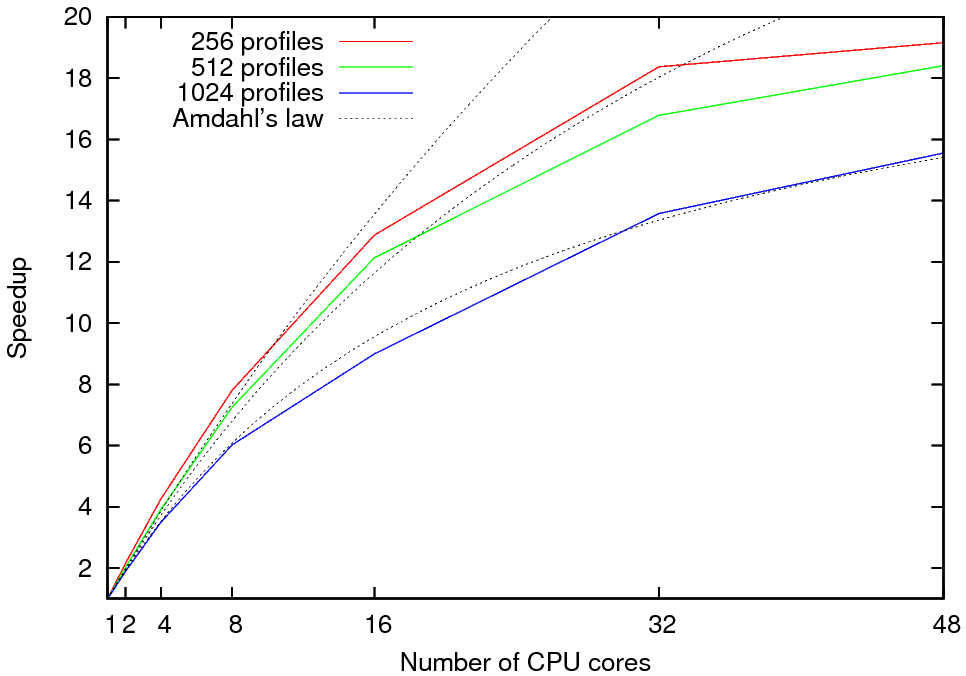
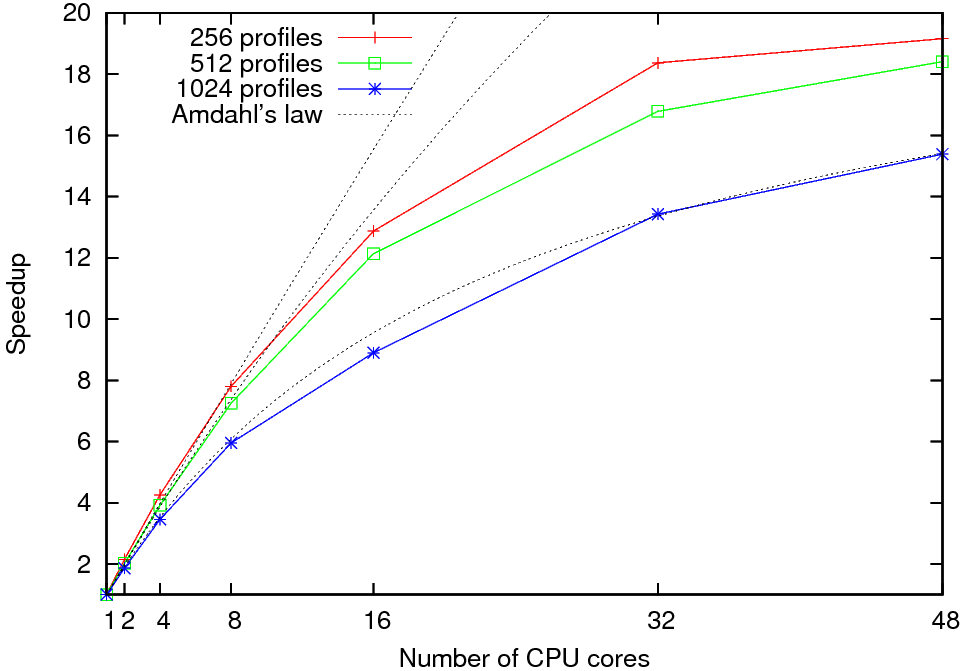
With corrections in the parallel algorothm and figures
git-svn-id: svn://svn.r-forge.r-project.org/svnroot/cghseg@44 1ac423ed-b746-4d41-94bf-136b112ad22c

diff --git a/paper/cghseg.tex b/paper/cghseg.tex
@@ -1,4 +1,4 @@
-\documentclass[article,10pt]{llncs}
+\documentclass{llncs}
 \usepackage{makeidx}  % allows for indexgeneration
 
 \usepackage[latin1]{inputenc}
@@ -179,9 +179,6 @@ At step $k, t$ of Algorithm \ref{algo:DPALinear}  $\mathcal{O}(P)$ basic operati
 \begin{algorithm}
 \begin{algorithmic}
 \caption{Linear Dynamic Programming algorithm for the classification loss}\label{algo:DPALinear}
-
-
-
     \State \textbf{Input}: $Y(t)$ a sequence of $n$ data-points, $K$ an integer 
  \State \textbf{Input}: $C_{ij}$ cost of the segments $\rrbracket I, j \rrbracket$  for all $(i, j) \in \llbracket1, n \rrbracket^2$\\
    \State \textbf{Output}: $C^{(k)}_{1,t}$ in $\mathbb{R}$ for all $k \leq K$ and $t \leq n$ \\
@@ -265,14 +262,16 @@ Joint segmentation presents an additional algorithmic challenge. When each $K_i$
 
 \begin{algorithm}
 \begin{algorithmic}
-\caption{Paralell Algorithm for Joint segmentation}\label{algo:parallelDP}
+\caption{Parallel Algorithm for Joint segmentation}\label{algo:parallelDP}
 \State \textbf{Input}: $\{Y_i(t)\}$, $I$ sequences of $n$ data-points, $K$ an integer 
 \State \textbf{Input}: $C_{ij}$ cost of the segments $\rrbracket i, j \rrbracket$  for all $(i, j) \in \llbracket1, n \rrbracket^2$\\
 \State \textbf{Output}:  $\{\widehat{K}_1,..., \widehat{K}_I\}$, $C^{(\widehat{K}_i)}_{1,t}$ in $\mathbb{R}$ for all $i \leq I$, $k \leq K_i$ and $t \leq n$ \\
-\For{ Parallel $i \in \{1,...I\}$}
-\State compute $C^{(k)}_{1,t}$  $\forall k \leq K$ and $t \leq n$
+\While{not convergence}
+\For{$i \in \{1,...I\}$} {\bf in parallel}
+\State compute $C^{(k)}_{1,t}$  $\forall k \leq K$ and $t \leq n$ with Algorithm \ref{algo:DPALinear}
 \EndFor
-\State compute $\{\widehat{K}_1,..., \widehat{K}_I\}$
+\State compute $\{\widehat{K}_1,..., \widehat{K}_I\}$ with {\bf sequential} DP \cite{PLH11}
+\EndWhile
   \end{algorithmic}
 \end{algorithm}
 
@@ -295,7 +294,7 @@ The software design take advantage of multiprocessing to treat the profiles in p
 To assess the quality of the parallel implementation, we developed a simulation scheme to analyze the \esoft execution time 
 with varying number of profiles and number of available CPU units (cores).
 We simulated $256, 512$ and $1024$ profiles of length $20,000$ with k.mean=10,SNR=5,lambda=10 and we ran \esoft on up to $48$ cores.
-We observed a relative speedup decrease (see Fig.\ref{figspeedup}) with the number of cores and profiles. Indeed, the lower is the number of profiles the less time consuming are the sequential parts compared with the parallel parts. Meanwhile, when the datasets comes large in the number of profiles, the speedup better follows the Amdahl's law that predicts the theoretical maximum speedup (see dashed lines Fig.\ref{figspeedup}): indeed the Amdahl's law established that the speedup follow $1/(alpha+(1-alpha)/p)$ where.... We deduced that some overhead due to the mechanisms that launch the parallel sections (mainly in the \texttt{R} package \texttt{parallel}) comes to be less negligible when the datasets are not large enough, but also that the quality of the implementation is therefore demonstrated especially for large datasets.
+We observed a relative speedup decrease (see Fig.\ref{figspeedup}) with the number of cores and profiles. Indeed, the lower is the number of profiles the less time consuming is the sequential part compared with the parallel part (see Algorithm \ref{algo:parallelDP}). Meanwhile, when the datasets comes large in the number of profiles, the speedup better follows the Amdahl's law that predicts the theoretical maximum speedup (see dashed lines Fig.\ref{figspeedup}, ref???): the Amdahl's law established that the speedup follows $1/(\alpha+(1-\alpha)/p)$ where $\alpha$ is the time proportion of the sequential part and $p$ the number of cores. We deduced that some overhead due to the mechanisms that launch the parallel sections (mainly in the \texttt{R} package \texttt{parallel}) comes to be less negligible when the datasets are not large enough, but also that the quality of the implementation is therefore demonstrated especially for large datasets.
 
 While the main interest of \esoft is the quality of its results, the associated computational expense is affordable even
 for very large datasets. As a benchmark, we simulated datasets with $1024$ profiles of length $100,000$ with k.mean=10,SNR=5,lambda=10. This corresponds to the up-tu-date limits of the available datasets??? 
@@ -327,8 +326,8 @@ SNR  &  $\text{CI}_{\text{new}}(\widehat{\text{K}})$ & $\text{CI}_{\text{old}}(\
 \end{table}
 \begin{figure}[h!]
   \begin{center}
-    \includegraphics[height=10cm]{figures/speedup}
-    \caption{Speedup. Notice that we ran 5 times each simulation and averaged the results.}
+    \includegraphics[height=5cm]{figures/speedup}
+    \caption{Average speedup of \esoft observed  on simulated datasets for a varying number of profiles and available core (plain lines). Amdahl's law is empirically adjusted to the computing results with $256,512$ and $1024$ profiles (dashed lines, with $\alpha=0.2,1.2,4.5\%$ respectively). Notice that we ran 5 times each simulation and averaged the results. Run on a quadri-12 cores Opteron 2.2 GHz, 256 Gb RAM.}
     \label{figspeedup}
   \end{center}
 \end{figure}
@@ -337,18 +336,20 @@ SNR  &  $\text{CI}_{\text{new}}(\widehat{\text{K}})$ & $\text{CI}_{\text{old}}(\
   \begin{center}
     %\scriptsize{
     %\scalebox{0.89}{
-    \begin{tabular}{>{\columncolor{lightgray}}c|ccc|ccc}
+    %\begin{tabular}{>{\columncolor{lightgray}}c|ccc|ccc}
+    \begin{tabular}{|c|ccc|ccc|}
       \hline
-      Length of the profiles &  \multicolumn{3}{c}{$20,000$} & \multicolumn{3}{c}{$100,000$} \\
-      Number of profiles & 256 & 512 & 1024 & 256 & 512 & 1024\\
+      %Length of the profiles 
+      $I$ (number of profiles) &  \multicolumn{3}{c}{$20,000$} & \multicolumn{3}{c|}{$100,000$} \\
+      %Number of profiles 
+      $n$ (data-points/profile) & 256 & 512 & 1024 & 256 & 512 & 1024\\
       \hline
       Average CPU time (min) & 6 & 15 & 54     & 31 & 70 & 253 \\
       Memory usage (Gb)      & 0.4 & 0.8 & 1.8    &  1.7 & 3.7 & 7.9 \\
       \hline
     \end{tabular}
     %}
-    \caption{Average performance of . on $48$ cores (quadri-12 cores Opteron 2.2 GHz + memory
-Notice that we ran 5 times each simulation and averaged the results.}
+    \caption{Average computational requirements of \esoft estimated on simulated datasets for a varying number of profiles and data-points, computed on $48$ cores. Notice that we ran 5 times each simulation and averaged the results. Run on a quadri-12 cores Opteron 2.2 GHz, 256 Gb RAM.}
     \label{tabtime}
   \end{center}
 \end{table}
